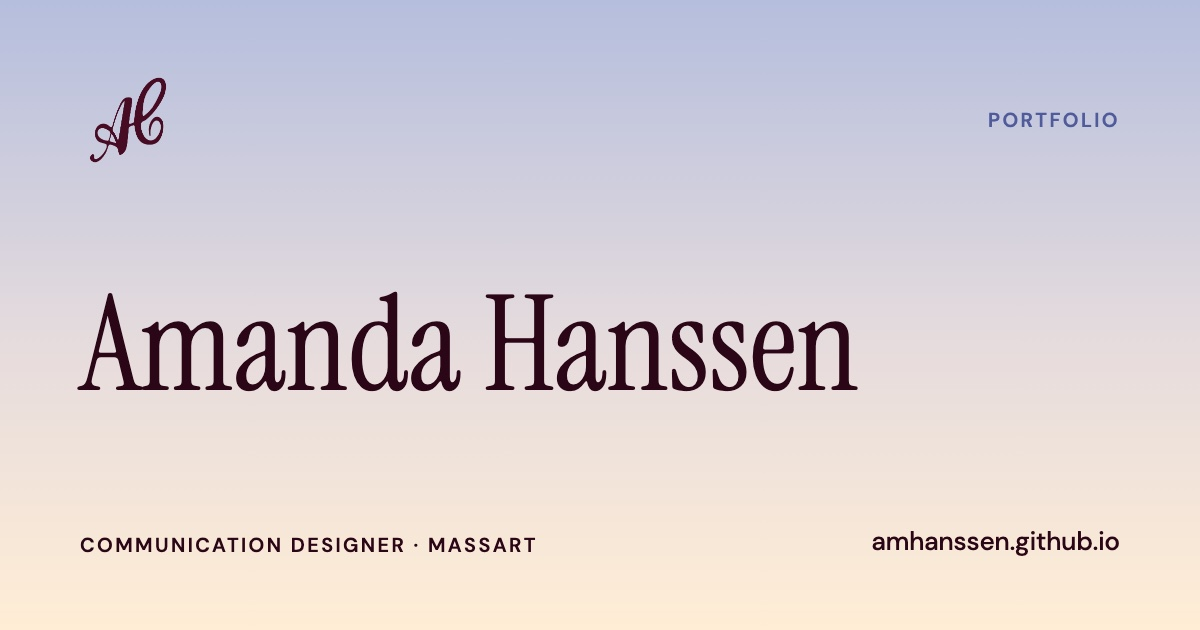
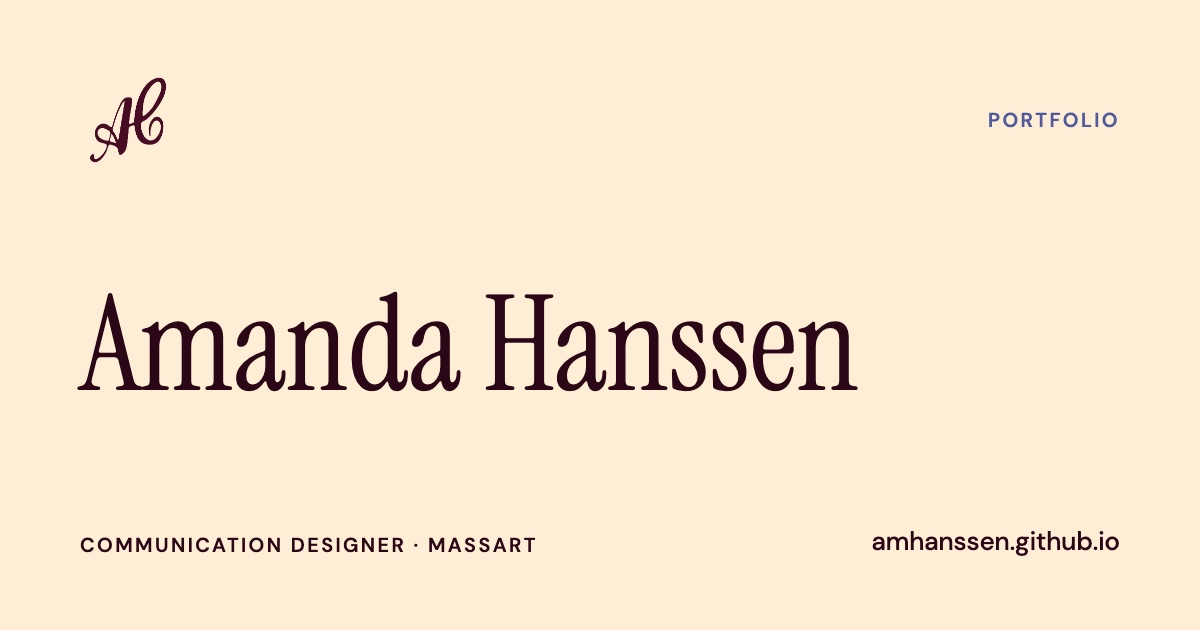
Remove the blue gradient: solid cream page tops and share card

diff --git a/css/style.css b/css/style.css
@@ -11,7 +11,7 @@
   --periwinkle-deep: #4F5B9A;
   --line: #EED3B4;
   --on-dark: #FFEDD5;
-  --sky: linear-gradient(180deg, #B5BEDD 0%, #E6DCDD 55%, #FFEDD5 100%);
+  --sky: var(--apricot);   /* top of each page: solid, no gradient */
 
   --serif: "Instrument Serif", Georgia, serif;
   --sans: "DM Sans", system-ui, -apple-system, sans-serif;
@@ -135,7 +135,7 @@ section { padding-bottom: clamp(48px, 6vw, 88px); }
 .about-strip { display: grid; grid-template-columns: 96px 1fr auto; gap: 28px; align-items: center; padding: 28px 0; border-top: 1px solid var(--ink); border-bottom: 1px solid var(--ink); text-decoration: none; }
 .about-strip .photo { aspect-ratio: 1 / 1; border-radius: 50%; }
 .about-strip:hover .link { opacity: .7; }
-.photo { border-radius: var(--radius); overflow: hidden; background: var(--sky); }
+.photo { border-radius: var(--radius); overflow: hidden; background: var(--paper); }
 .photo img { width: 100%; height: 100%; object-fit: cover; }
 .stack { display: grid; gap: 24px; justify-items: start; }
 

diff --git a/scripts/share-card.html b/scripts/share-card.html
@@ -9,7 +9,7 @@
   * { margin: 0; box-sizing: border-box; }
   body { width: 1200px; height: 630px; overflow: hidden; }
   .card { width: 1200px; height: 630px; padding: 72px 80px; display: flex; flex-direction: column; justify-content: space-between;
-    background: linear-gradient(180deg, #B5BEDD 0%, #E6DCDD 55%, #FFEDD5 100%); color: #2B0616; font-family: "DM Sans", sans-serif; }
+    background: #FFEDD5; color: #2B0616; font-family: "DM Sans", sans-serif; }
   .top { display: flex; align-items: center; justify-content: space-between; }
   .mono { width: 96px; height: 96px; background: #470B24;
     -webkit-mask: url("../images/monogram.png") center / contain no-repeat; mask: url("../images/monogram.png") center / contain no-repeat; }

diff --git a/CLAUDE.md b/CLAUDE.md
@@ -8,6 +8,7 @@ Read this first. It sums up everything done so far, so a new chat can pick up wi
 - Publishes with **GitHub Desktop → Push origin** (the terminal is not signed in to GitHub). Ask before pushing or publishing. Check "Current Repository" says **amhanssen.github.io** first (she also has an Intertwine repo).
 - **Career focus: branding and UI/UX** (web design too). She enjoyed physical/print work (Gator Graphix) but it's her past, not her direction. Frame copy toward branding and UI/UX.
 - **About page intro paragraph** is personal, not a job summary (job details belong in Experience). Resume summary also leads with branding and UI/UX. Current About text (Nov 2, 2026): "I've always loved making things people can see and touch, from signs to printed pieces. Now I'm focused on branding and UI/UX: shaping how a brand looks, and how people use it on screen." Don't claim she did installs at Gator unless she confirms.
+- **No gradients.** She removed the blue (periwinkle) gradient at the top of pages after feedback that it reads as AI-made. Page tops are solid apricot `#FFEDD5` (`--sky` in `css/style.css`), in Figma and the share card too.
 - Wants to save credits: keep answers short, batch changes, avoid extra screenshots and re-checks unless something looks off.
 
 ## Where things live
